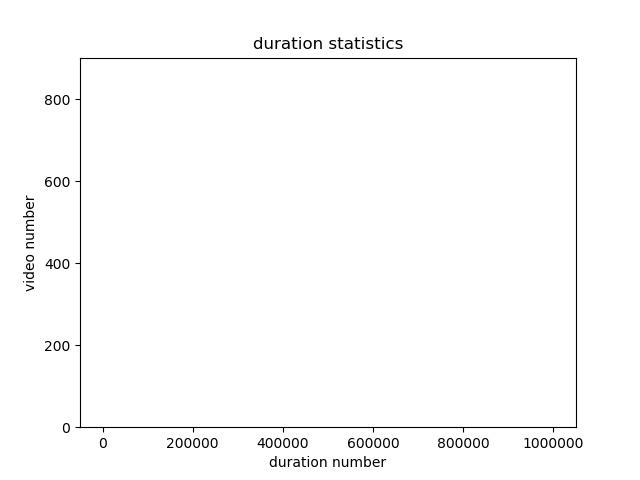
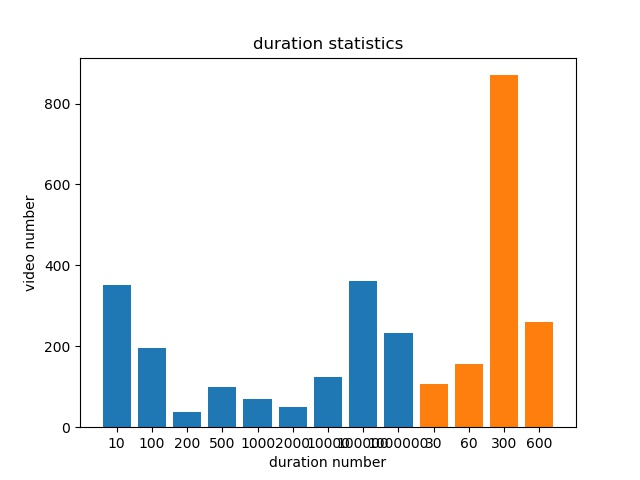
Amend and debug.

diff --git a/bilibili_content_analysis.py b/bilibili_content_analysis.py
@@ -46,7 +46,7 @@ class BilibiliAnalysis:
         # xticks = []
         # for i in range(0, 10001, 10):
         #     xticks.append(i)
-
+        xticks = [str(i) for i in xticks]
         bar_num = defaultdict(int)
         print(data_array)
         for data in data_array:
@@ -54,6 +54,9 @@ class BilibiliAnalysis:
                 if int(xticks[i]) > data >= int(xticks[i - 1]):
                     bar_num[xticks[i]] += 1
         xticks = xticks[1:]
+        print(bar_num)
+        test_array = [bar_num[xtick] for xtick in xticks]
+        print(test_array)
         pyplot.bar(xticks, [bar_num[xtick] for xtick in xticks], align='center')
 
         pyplot.xlabel(x_label_name)
